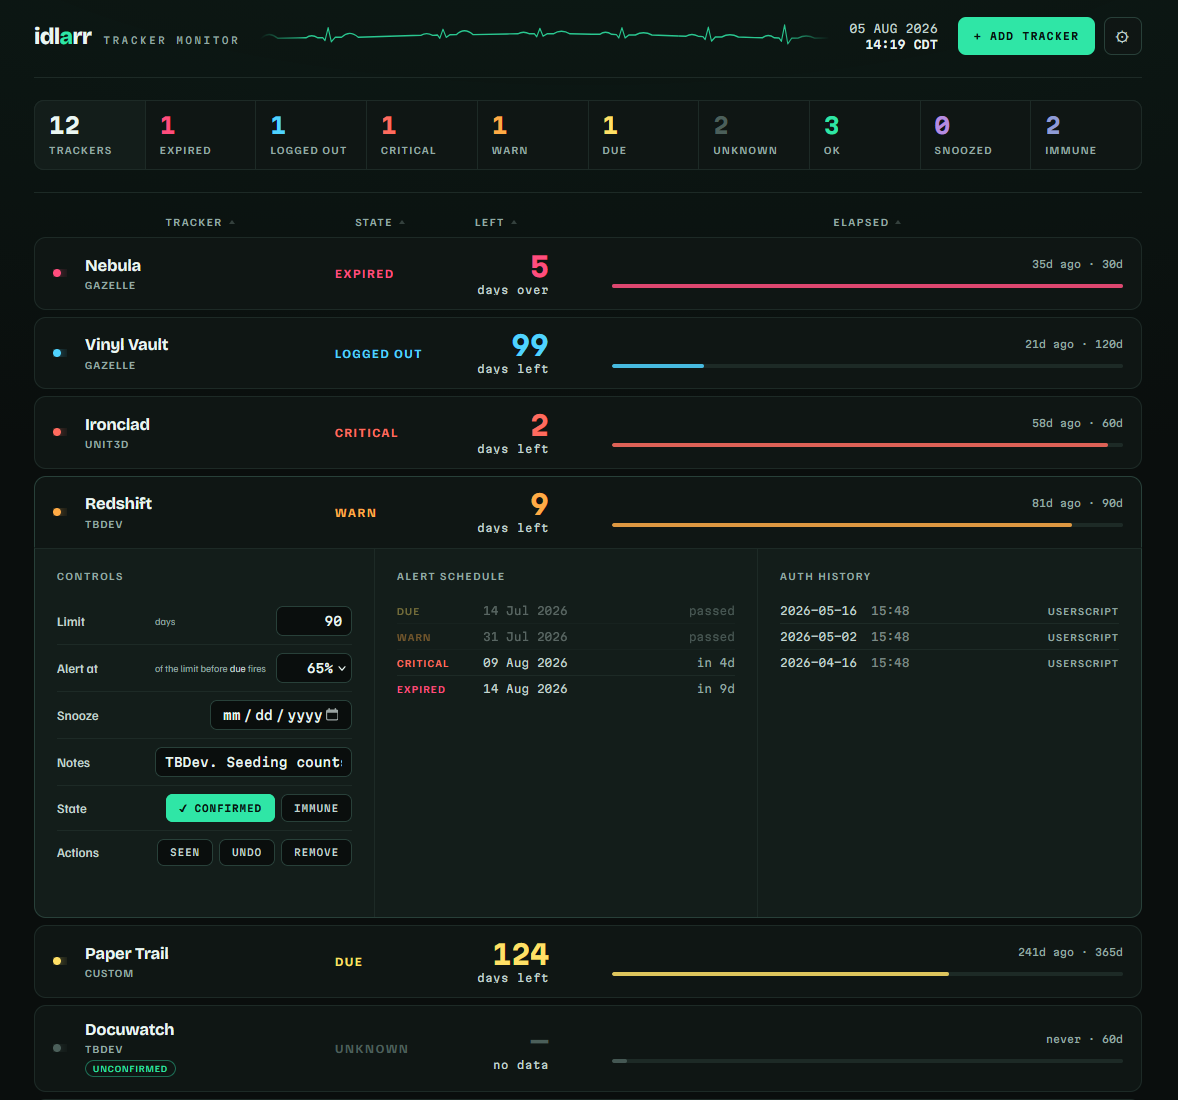
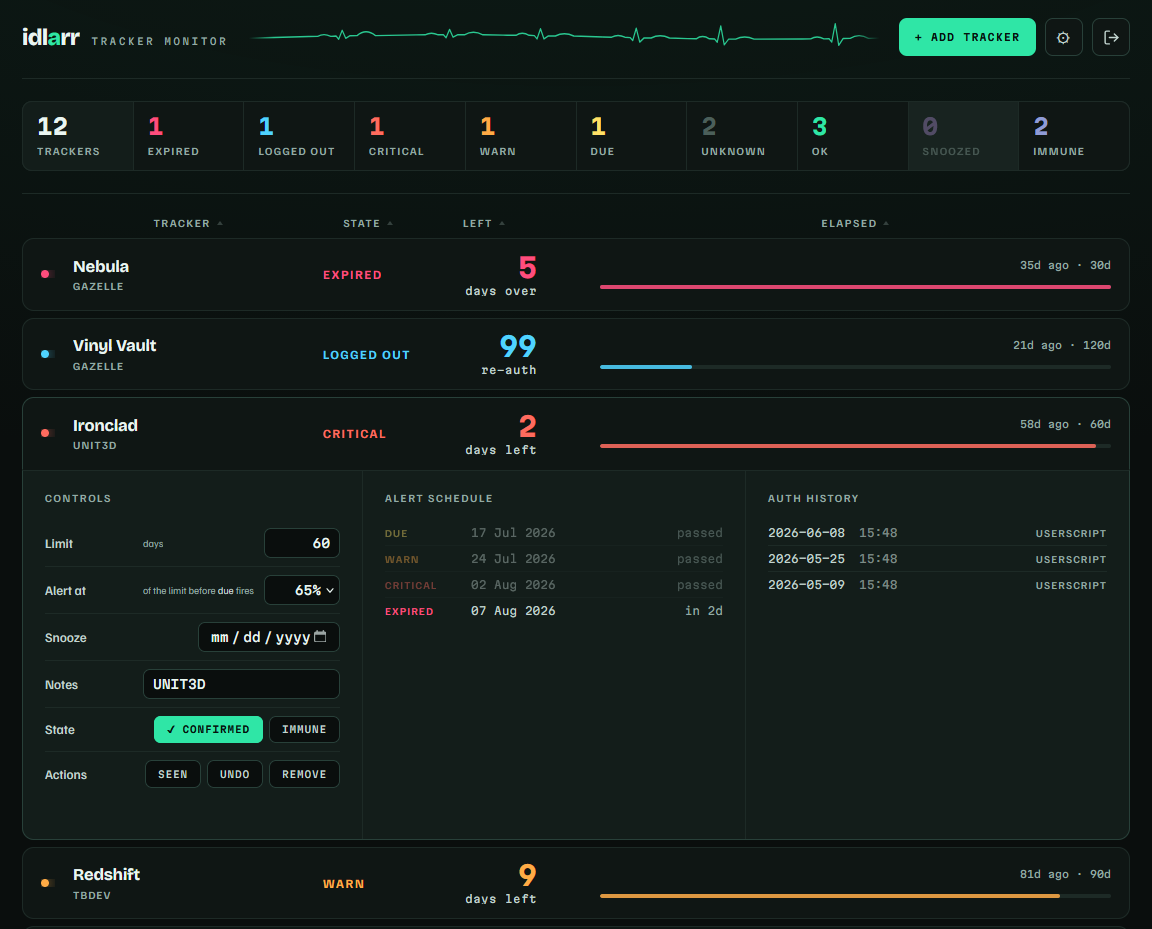
Correct "nightly backup" everywhere, and document the v1.4.2 header
The backup does not run at night. It runs inside the daily check, at
check_hour, which is the same inaccuracy already fixed on the recent-activity
row. Fixing the label there was not enough: the claim was repeated in seven
other places, including two strings users read in Settings.

  README.md               3
  docs/trackers.md        1
  docs/troubleshooting.md 2, including the restore procedure
  app.py                  2 user-facing strings: the Backup retention help
                          and the About row

So Settings still said "Nightly snapshots" and "Backed up nightly" directly
below an activity row reading "Database backup". The troubleshooting page now
says "at your check_hour, not overnight", which matters when you are restoring
and working out which day's data a snapshot holds.

The README's header description also predated v1.4.2: it named only Add tracker
and the gear, did not mention the sign-out icon, and offered "sign out" under
Sign-in unconditionally when it is Forms only. It now also records that closing
the panel discards unsaved edits, which is behaviour worth knowing rather than
discovering.

Screenshot refreshed for the new header, state labels and dimmed empty counts.

Checked by rendering the page and asserting every control the docs name is
present, and that "nightly" no longer appears anywhere in the served UI.

diff --git a/app.py b/app.py
@@ -63,7 +63,7 @@ NOTIFY_URLS = [u.strip() for u in os.environ.get("IDLARR_NOTIFY_URLS", "").split
 # the note in /ping. Must be >= the userscript's client-side cooldown.
 DEDUPE_HOURS = int(os.environ.get("IDLARR_DEDUPE_HOURS", 12))
 
-# Nightly snapshot of the events database, taken as part of the daily check.
+# Daily snapshot of the events database, taken as part of the daily check.
 # Set IDLARR_BACKUP_KEEP=0 to turn it off.
 BACKUP_DIR = Path(os.environ.get("IDLARR_BACKUP_DIR", "/data/backups"))
 _ENV_BACKUP_KEEP = os.environ.get("IDLARR_BACKUP_KEEP", "").strip()
@@ -3557,7 +3557,7 @@ def settings_sheet(method: str, n_trk: int, n_hosts: int, js_url: str,
                f'<input id="setUrl" class="w-grow" value="{esc(status_url())}" '
                f'placeholder="https://idlarr.example.ts.net">')
         + _row("Backup retention",
-               "Nightly snapshots kept in /data/backups. 0 disables them.",
+               "Kept in /data/backups, one per day. 0 disables them.",
                f'<input id="setKeep" class="w-num" value="{backup_keep()}">'
                f'<em class="act-d" style="width:auto;margin:0">days</em>')
         + '<p class="sub" style="margin:15px 0 0">Written to '
@@ -3665,7 +3665,7 @@ def settings_sheet(method: str, n_trk: int, n_hosts: int, js_url: str,
         + _row("Last check", "The daily pass that evaluates every countdown "
                "and sends the batched alert.",
                f'<span class="val">{esc(last_check)}</span>')
-        + _row("Database", "Backed up nightly.", f'<span class="val">{db_kb}</span>')
+        + _row("Database", "Backed up once a day, inside the check.", f'<span class="val">{db_kb}</span>')
         + _row("Uptime check",
                "/healthz needs no credentials, so a monitor can reach it.",
                '<a class="lk" href="/healthz" target="_blank" rel="noreferrer">/healthz</a>')

diff --git a/README.md b/README.md
@@ -118,7 +118,7 @@ Jackett — see **[docs/trackers.md](docs/trackers.md)**.
 Optional, and off until you set it up. Configure it from the status page —
 there is no password in `.env`, and nothing to edit in a file. The credentials
 are stored **hashed** (PBKDF2-HMAC-SHA256) in the database, so they ride along
-in the nightly backup and change without recreating the container.
+in the daily backup and change without recreating the container.
 
 | Method | What a stranger sees |
 |---|---|
@@ -180,13 +180,14 @@ row to expand a drawer with three panels:
 - **alert schedule** — the exact date each rung fires, or why it won't
 - **auth history** — recent auth events, and whether each was observed or asserted
 
-**Add tracker** and the settings gear sit top right. Everything configurable
-lives behind the gear, in six sections:
+**Add tracker**, the settings gear and, when sign-in uses Forms, a **sign-out**
+icon sit top right. Everything configurable lives behind the gear, in six
+sections. Closing the panel discards anything you have not saved.
 
 | | |
 |---|---|
 | **General** | timezone, check hour, alert threshold, still-alive push, status page URL, backup retention, config download and restore, recent activity |
-| **Sign-in** | method, credentials, sign out |
+| **Sign-in** | method, credentials, and sign out when the method is Forms |
 | **Userscript** | coverage, endpoint, **Install** and **Copy URL** |
 | **Import** | Prowlarr or Jackett |
 | **Notifications** | destination count, and a **Send test** button |
@@ -240,7 +241,7 @@ own way — a colour in Discord, a priority level in Pushover, a tag in ntfy.
 ## Still-alive push
 
 Nothing else watches the watchdog. If this container dies, the daily check and
-the nightly backup both stop — and **silence is exactly what a healthy quiet
+the backup it takes both stop — and **silence is exactly what a healthy quiet
 day looks like**. You would not find out until an account was gone.
 
 Turn on a heartbeat in *Settings → General → Still-alive push*: daily, weekly or
@@ -357,8 +358,9 @@ cross-origin from tracker pages, where cookies do not apply.
   failure direction, but check the console (`[idlarr]` logs) before assuming
   the tracker is at fault. Use `auth_sel` to override per-site.
 - **`trackers.yml` hot-reloads.** Edit it live; no restart.
-- **The database is backed up nightly** to `/data/backups/idlarr-YYYY-MM-DD.db`,
-  14 days by default, set in **Settings → General**. It is the only record of when each
+- **The database is backed up once a day**, at the start of the daily check
+  rather than overnight, to `/data/backups/idlarr-YYYY-MM-DD.db`. 14 days by
+  default, set in **Settings → General**. It is the only record of when each
   account was last seen — losing it risks no account, but resets every countdown
   to `no data` until you re-visit all of them. See
   [Restoring a backup](docs/troubleshooting.md#restoring-a-backup); it has been tested, and there is one

diff --git a/docs/troubleshooting.md b/docs/troubleshooting.md
@@ -32,8 +32,9 @@ serving; if they differ, that's the whole answer.
 
 # Restoring a backup
 
-Snapshots land in `/data/backups/` as `idlarr-YYYY-MM-DD.db`, written nightly
-during the daily check via SQLite's online backup API. Restoring one is a file
+Snapshots land in `/data/backups/` as `idlarr-YYYY-MM-DD.db`, written during
+the daily check (at your `check_hour`, not overnight) via SQLite's online
+backup API. Restoring one is a file
 copy:
 
 ```bash
@@ -54,7 +55,7 @@ and last-auth date intact.
 Two things to expect. A restored snapshot **re-runs that day's check and
 re-sends its alert**, because the backup is written just before the "already
 checked today" marker — so restoring on a day something was due gives you a
-duplicate push. And a restore rolls back to the last nightly snapshot, so auth
+duplicate push. And a restore rolls back to the last daily snapshot, so auth
 events recorded since then are gone; the countdowns will read older than
 reality until the userscript reports again.
 

diff --git a/docs/trackers.md b/docs/trackers.md
@@ -39,7 +39,7 @@ cost you a list on screen, not a rewritten config.
 A connection that works is **remembered**, so a container recreate does not send
 you back for the key. Leave the key field blank to reuse it; it is only reused
 for the same source and URL, never sent to a different host. It is stored in the
-database in plaintext and included in the nightly backup — there is a **Forget**
+database in plaintext and included in the daily backup — there is a **Forget**
 button beside it if that is not what you want. The key is never sent back to the
 browser; the field only shows that one is saved.
 
